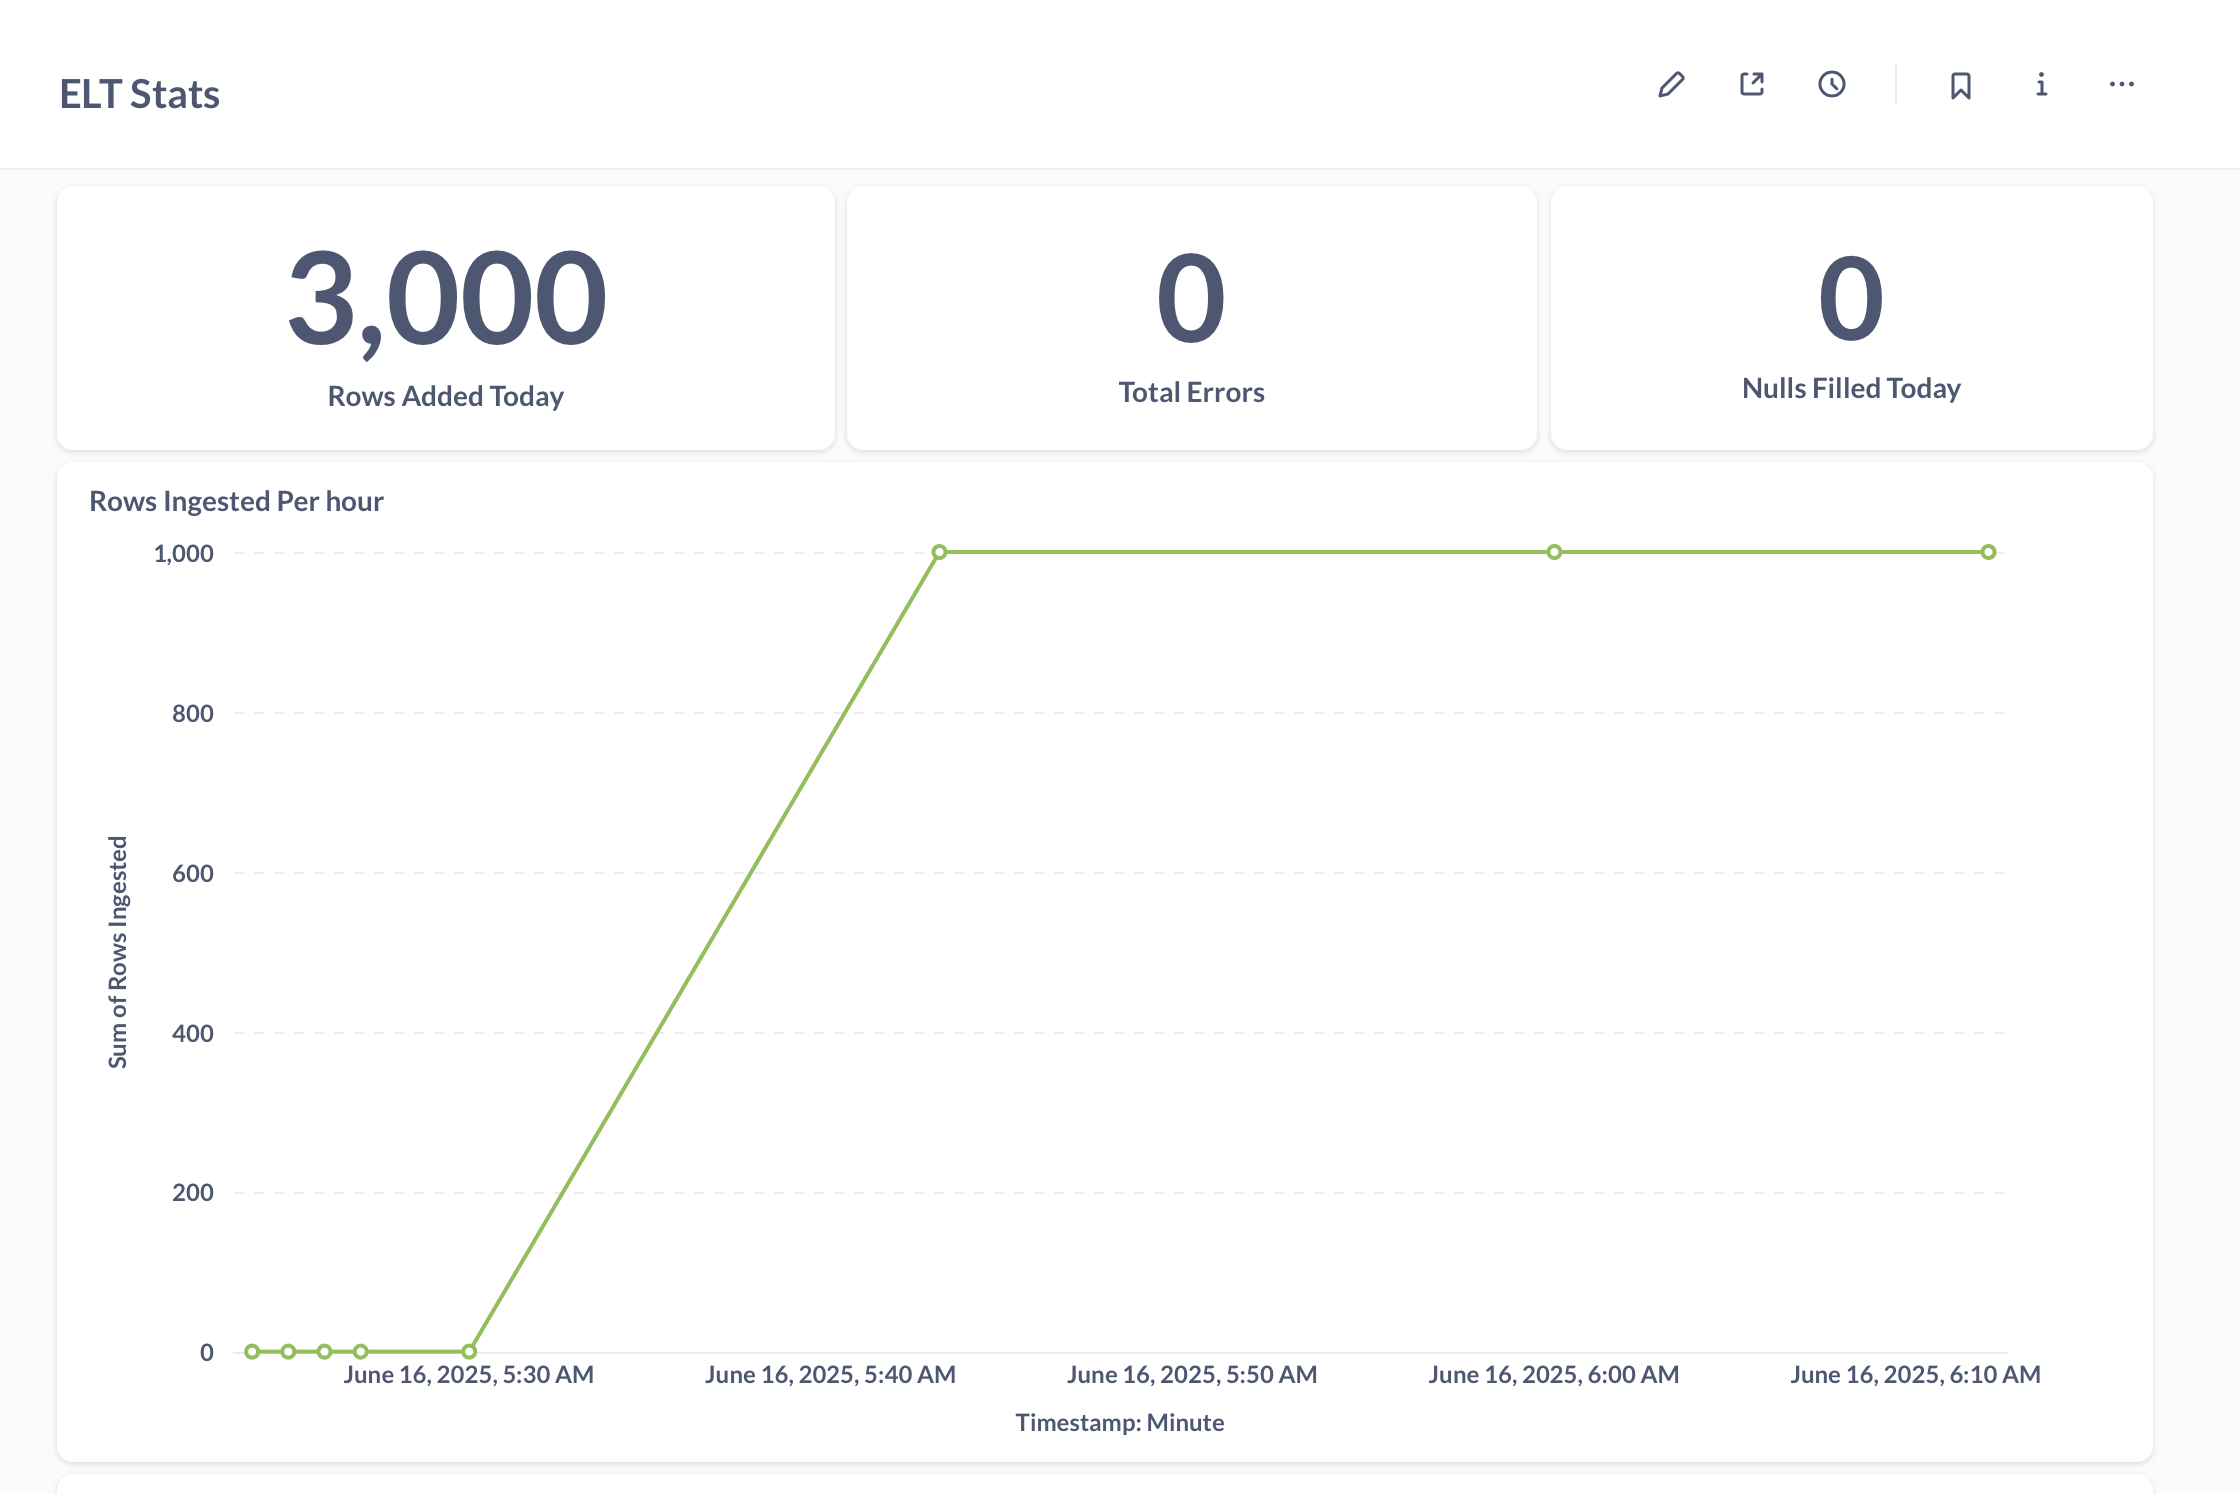
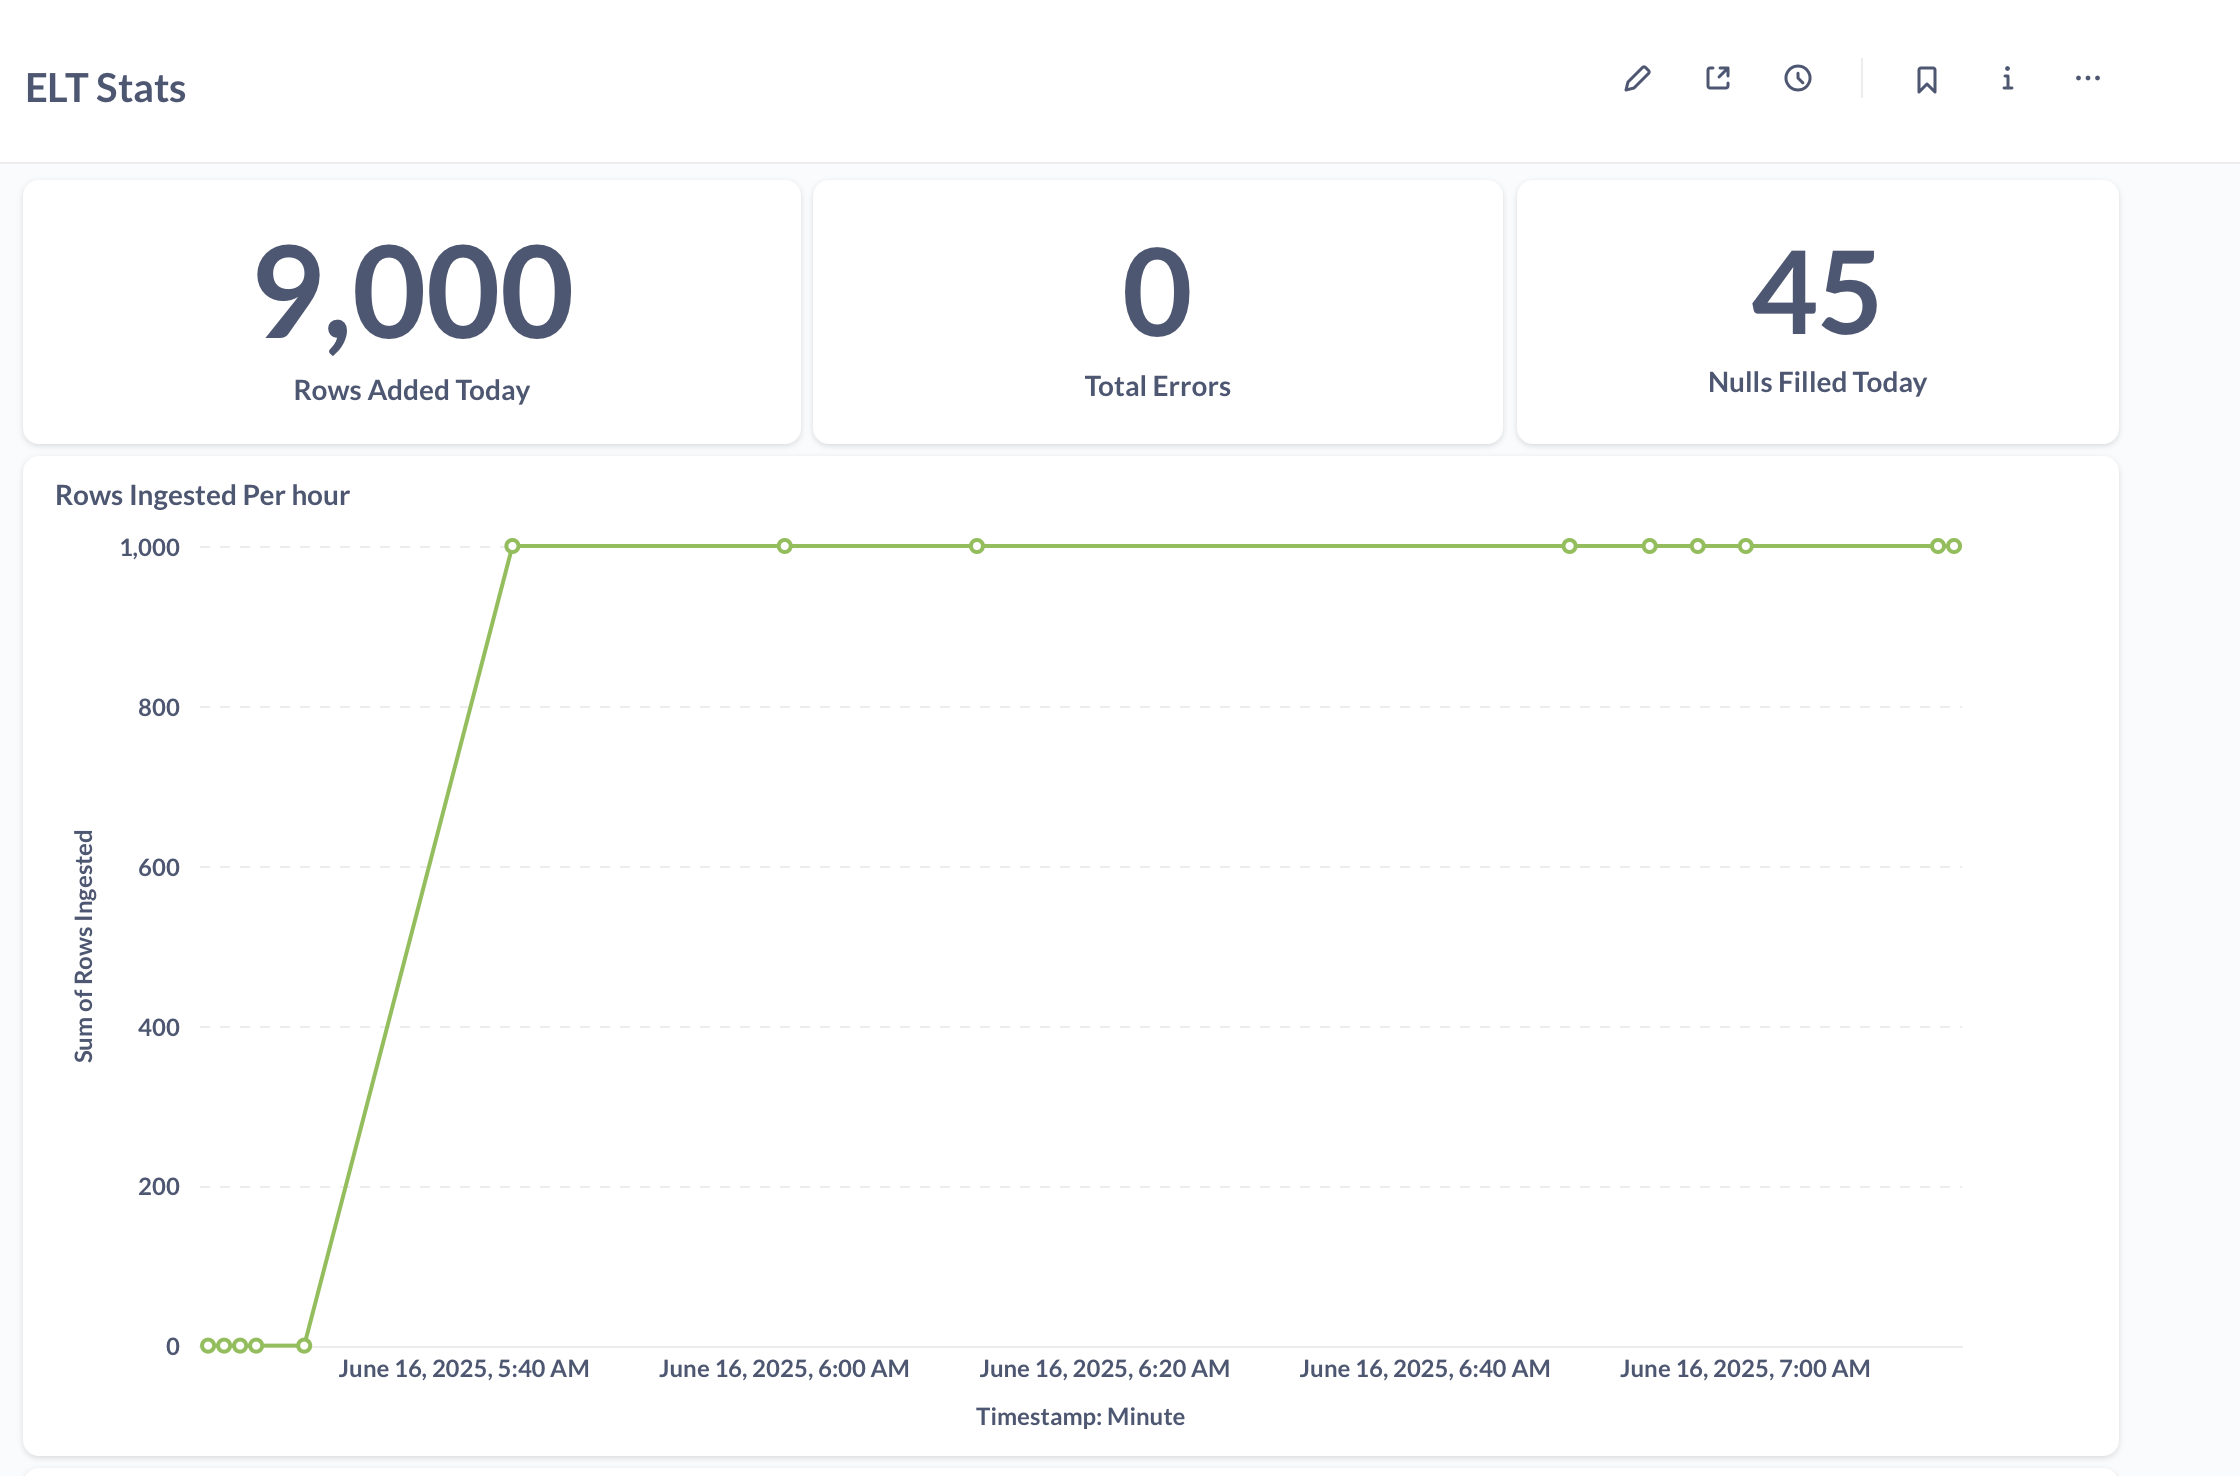
update readme

diff --git a/dags/Staging_upload.py b/dags/Staging_upload.py
@@ -13,18 +13,18 @@ def ingestionFunc(**kwargs):
         port=6543
     )
 
-    # Now you can use .cursor()
     print("Conection Testing123")
     print(conn)
     cursor = conn.cursor()
-    #cursor.execute("SELECT * FROM customers LIMIT 5;")
-    #print(cursor.fetchall())
+    #I am deleting and uploading whole data again because there wont be new data coming in.
+    # but in real project, we can do incremental load
     cursor.execute("DELETE FROM customers;")
     print("Old data deleted.")
 
     rows_ingested = 0
 
     # Open your CSV
+    # I have removed some fields from the columns to test the transformation logic from the csv manually
     with open('customer_churn_data.csv', 'r') as f:
         reader = csv.reader(f)
         next(reader)  # Skip header row

diff --git a/dags/transform_data.py b/dags/transform_data.py
@@ -30,11 +30,6 @@ def transformFunc(**kwargs):
     nulls_before = df.isnull().sum().sum()
 
     # Handle missing values
-    # df['totalcharges'] = pd.to_numeric(df['totalcharges'], errors='coerce').fillna(0)
-    # df['tenure'] = df['tenure'].fillna(0)
-    # df['gender'] = df['gender'].fillna('Unknown')
-    # df['contracttype'] = df['contracttype'].fillna('Unknown')
-    # df['techsupport'] = df['techsupport'].fillna('Unknown')
     df['age'] = pd.to_numeric(df['age'], errors='coerce').fillna(0).astype(int)
     df['tenure'] = pd.to_numeric(df['tenure'], errors='coerce').fillna(0).astype(int)
     df['monthlycharges'] = pd.to_numeric(df['monthlycharges'], errors='coerce').fillna(0.0)

diff --git a/README.md b/README.md
@@ -57,7 +57,7 @@ CREATE DATABASE myuser;
 
 -- Switch to staging DB and create customers table
 \c cust_churn_stg;
-
+-- creating all text type column to be able to load missing columns(integer). Tranforming them to int again while tranformation
 CREATE TABLE IF NOT EXISTS customers (
     CustomerID TEXT,
     Age TEXT,
@@ -114,6 +114,11 @@ Due to container-bound Metabase dashboards, public hosting isn't supported in th
 In a production setup, Metabase would be hosted on **AWS ECS or EC2** with proper reverse proxying and authentication.
 
 ### Dashboard Screenshots
+Total Rows Ingested Per Hour will be 1000 because I am deleting and loading whole data.This will not the case in real project but for the sake of showing and updating the dashboard, I am doing that here.
+Nulls Filled and Total Rows added Number will also increase every time we run because we are running whole logic again on whole data. this is againn for the puprose of this project since there wont be new data added.
+
+
+
 
 ![Dashboard Screenshot 1](images/Dashboard1.png)
 ![Dashboard Screenshot 2](images/Dashboard2.png)
